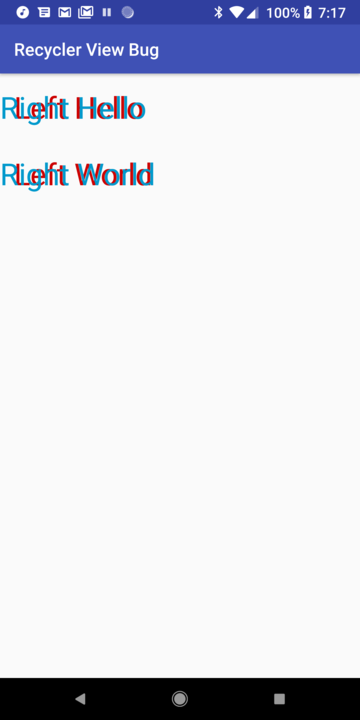
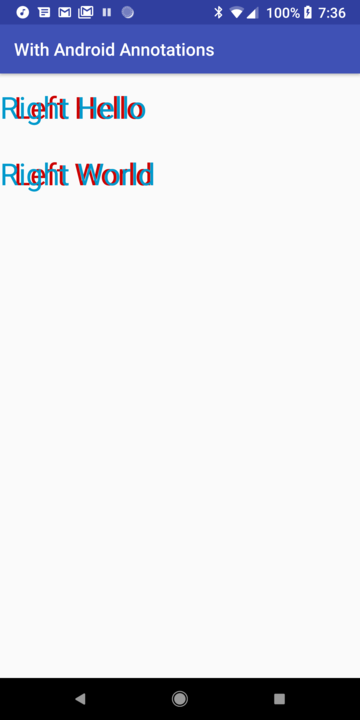
Screenshots

Changed region(s): [[0.0306, 0.0611, 0.6111, 0.0917], [0.9167, 0.0, 0.9778, 0.0306], [0.6417, 0.0, 0.6722, 0.0306]]

diff --git a/app/src/main/java/com/example/al/recyclerviewbug/plain/RecyclerViewActivity.java b/app/src/main/java/com/example/al/recyclerviewbug/plain/RecyclerViewActivity.java
@@ -18,6 +18,8 @@ public class RecyclerViewActivity extends AppCompatActivity {
     super.onCreate(savedInstanceState);
     setContentView(R.layout.activity_recycler_view);
 
+    setTitle("Without Android Annotations");
+
     final RecyclerView recyclerView = findViewById(R.id.recycler_view);
     recyclerView.setAdapter(new Adapter(new String[]{ "Hello", "World" }));
   }

diff --git a/app/src/main/java/com/example/al/recyclerviewbug/annotated/AnnotatedRecyclerViewActivity.java b/app/src/main/java/com/example/al/recyclerviewbug/annotated/AnnotatedRecyclerViewActivity.java
@@ -32,6 +32,7 @@ public class AnnotatedRecyclerViewActivity extends AppCompatActivity {
 
   @AfterViews
   protected void initialize() {
+    setTitle("With Android Annotations");
     adapter.items = new String[]{"Hello", "World"};
     recyclerView.setAdapter(adapter);
   }

diff --git a/README.md b/README.md
@@ -3,8 +3,9 @@
 
 Screenshot with annotations:
 
-![With Annotations](https://raw.githubusercontent.com/alonalbert/recycler-view-bug/master/no-annotations.png)
-![Without Annotations](https://raw.githubusercontent.com/alonalbert/recycler-view-bug/master/with-annotations.png)
+![Without Annotations](https://raw.githubusercontent.com/alonalbert/recycler-view-bug/master/without-annotations.png)
+
+![With Annotations](https://raw.githubusercontent.com/alonalbert/recycler-view-bug/master/with-annotations.png)
 
 
 
